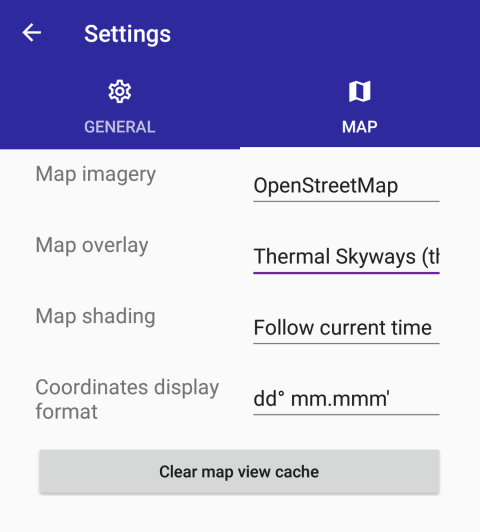
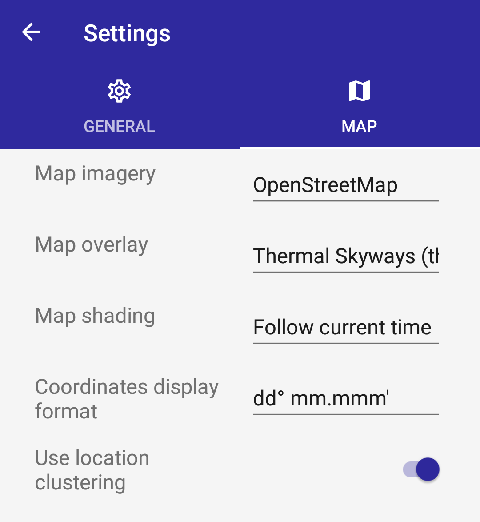
updated manual for next release

diff --git a/src/App/Resources/Assets/info/manual.md b/src/App/Resources/Assets/info/manual.md
@@ -36,6 +36,11 @@ have the following options:
 - ![Navigate here](images/directions.svg) Navigate here: Starts the navigation
   app to show a route to this location
 
+When the location displays a takeoff, the takeoff directions are shown using
+circle sectors:
+
+![Takeoff direction pin](images/takeoff-direction-location.png)
+
 ### Track height profile
 
 When tapping on a track, the height profile of that track is shown in a
@@ -66,7 +71,7 @@ There are several toolbar buttons above the track height profile:
 Custom layers can be added to the map. The layers can display geometric
 objects, such as thermals, national park areas, air spaces or labels. The
 layers can be imported from CZML files or OpenAir Airspace text files. When
-tapping on a layer object, details for the object is shown:
+tapping on a layer object, details for the object are shown:
 
 ![Layer object](images/layer-object.png)
 
@@ -103,7 +108,7 @@ flying range. A Hide button lets you hide the cone again.
 
 ## ![Layers](images/layers-outline.svg) Layers
 
-The app can show layers above the 3D map, e.g. to display thermals, national
+The app can show layers on the 3D map, e.g. to display thermals, national
 park areas or other geographical elements. The Layers view shows the list of
 currently loaded custom layers.
 
@@ -164,8 +169,8 @@ locations to the list. First, a selection dialog is shown:
 When opening a new list, you can choose to append to the existing list or
 replace all existing entries.
 
-Locations can also be added when opening supported file types using the app
-(e.g. by tapping on the file or by downloading a file from the web).
+Locations can also be added when opening files of supported file types, using
+the app (e.g. by tapping on the file or by downloading a file from the web).
 
 When importing KML or KMZ files, only the Placemarks contained in the file are
 added as locations. When importing GPX files, only "wpt" waypoints are
@@ -424,6 +429,7 @@ The Map tab has several settings:
   * dd&deg; mm.mmm'
   * dd&deg; mm' sss"
 
-The "Clear map view cache" button clears the app's browser cache that stores
-tile map images and terrain height infos. This may be useful to use when the
-app doesn't continue to load tiles.
+- Use location clustering: When activiated, location pins are clustered into
+  red "placeholder" pins when zooming out. The pins show how many actual
+  loations are clustered. This helps when many location pins are placed in one
+  small region.
